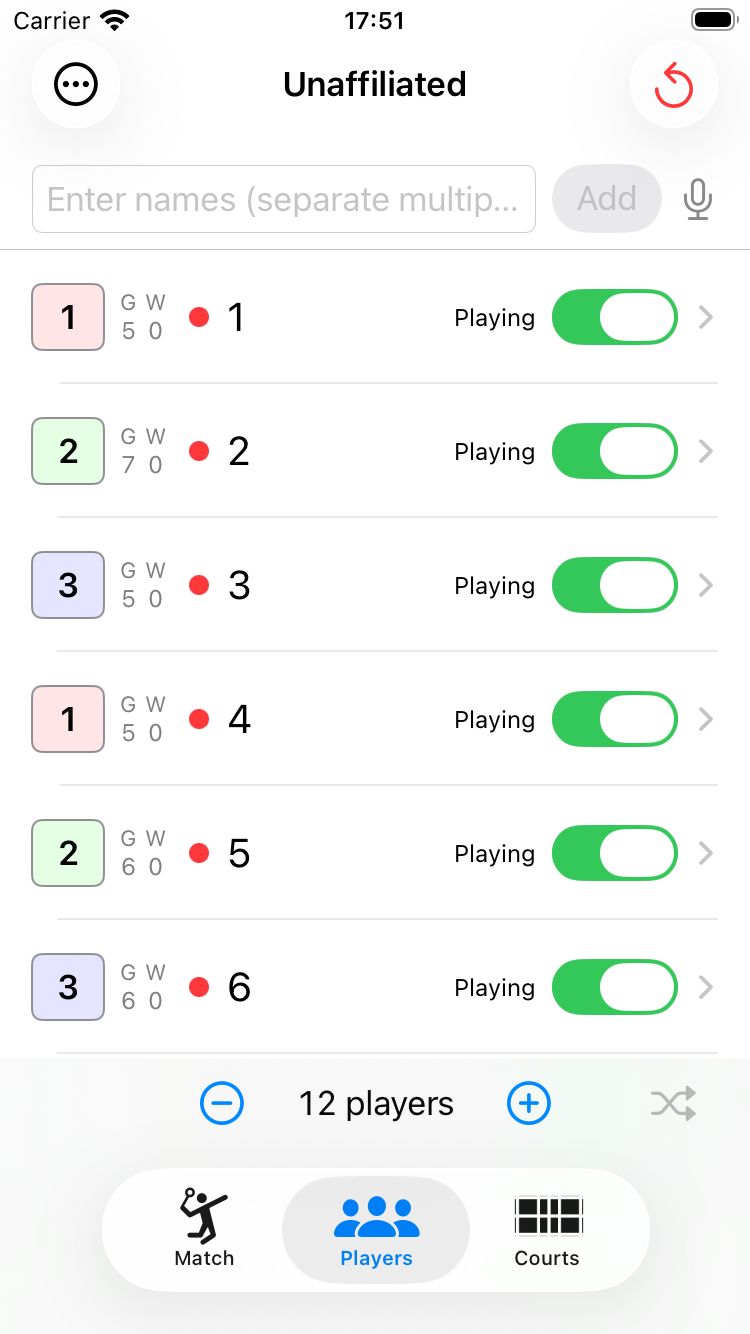
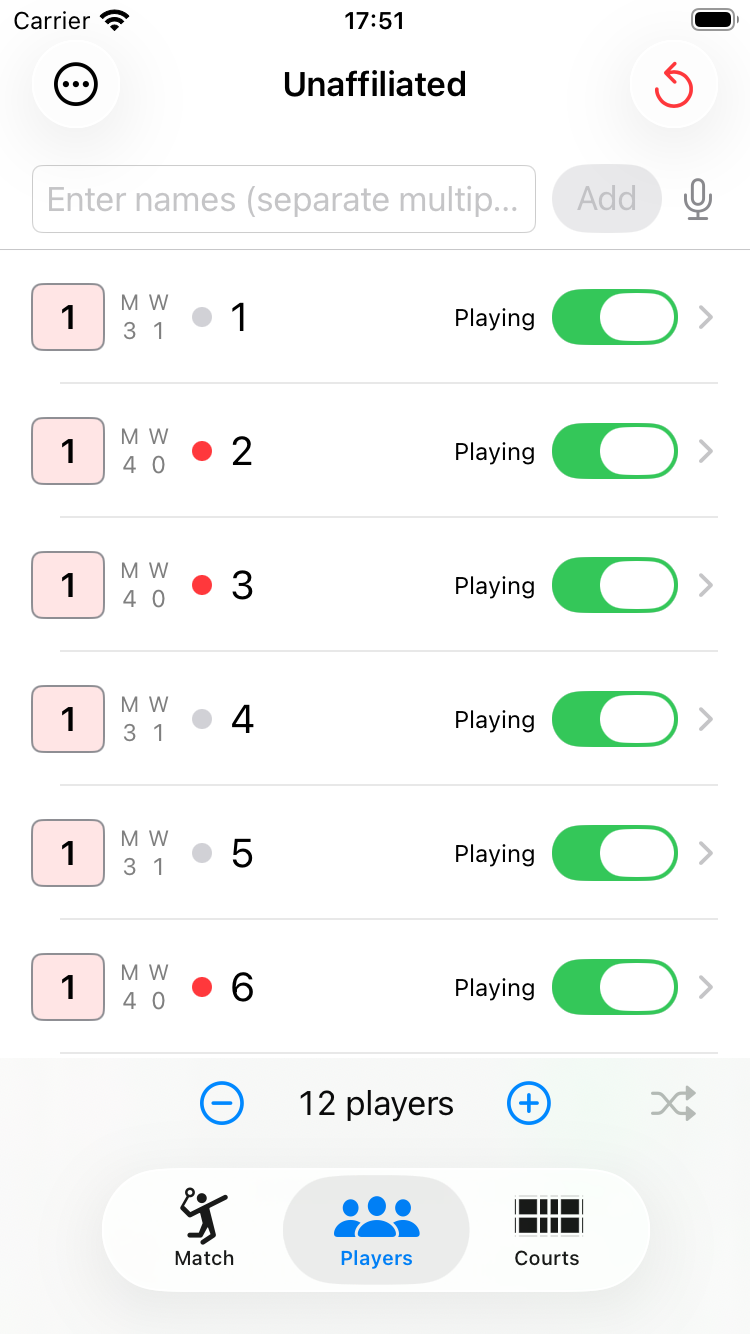
プレイヤータブの試合数表示を「G」から「M」（Match）に変更

diff --git a/players-tab.html b/players-tab.html
@@ -32,7 +32,7 @@
   <li><a href="#rest-toggle">3. 出場状態を変更する（休憩・復帰）</a></li>
   <li><a href="#rename">4. 名前を変更する</a></li>
   <li><a href="#level">5. レベルを設定する</a></li>
-  <li><a href="#game-wait-count">6. 試合数・待機回数（G・W）を確認する</a></li>
+  <li><a href="#game-wait-count">6. 試合数・待機回数（M・W）を確認する</a></li>
   <li><a href="#default-absent">7. デフォルト欠席を設定する</a></li>
   <li><a href="#fixed-pair">8. 固定ペアを設定する</a></li>
   <li><a href="#status">9. 現在の出場状況を確認する</a></li>
@@ -70,12 +70,12 @@
 <div class="ss"><img src="images/players-overview.png" alt="レベルバッジ"></div>
 <p>レベルはコートへの割り当てに使用されます。詳しくは「高度な使い方」をご覧ください。</p>
 
-<h2 id="game-wait-count">6. 試合数・待機回数（G・W）を確認する</h2>
-<p>レベルバッジの右には、<strong>G</strong>（試合数）と<strong>W</strong>（待機回数）が数字で表示されます。</p>
-<div class="ss"><img src="images/players-overview.png" alt="G（試合数）とW（待機回数）の表示"></div>
+<h2 id="game-wait-count">6. 試合数・待機回数（M・W）を確認する</h2>
+<p>レベルバッジの右には、<strong>M</strong>（試合数）と<strong>W</strong>（待機回数）が数字で表示されます。</p>
+<div class="ss"><img src="images/players-overview.png" alt="M（試合数）とW（待機回数）の表示"></div>
 <ul>
-  <li><strong>G</strong> — これまでに出場した試合数</li>
-  <li><strong>W</strong> — 連続で試合に出場していない回数。組み合わせ生成時、この数値が大きいプレイヤーほど優先的に選ばれます（出場すると 0 に戻ります）</li>
+  <li><strong>M</strong>（Match） — これまでに出場した試合数</li>
+  <li><strong>W</strong>（Wait） — 連続で試合に出場していない回数。組み合わせ生成時、この数値が大きいプレイヤーほど優先的に選ばれます（出場すると 0 に戻ります）</li>
 </ul>
 <div class="tip">💡 組み合わせがきちんと公平にローテーションされているかを確認したいときの目安として利用できます。</div>
 <div class="tip">💡 試合の途中で新しく追加したプレイヤーは、W が 0 のままでも次の組み合わせで最優先に出場します。一度も出場していないプレイヤーは、待機回数に関わらず優先されるためです。</div>

diff --git a/home.html b/home.html
@@ -62,6 +62,7 @@
 <ul>
   <li>試合タブの組み合わせ表示のレイアウトを変更。レベルバッジをコート名の左に表示し、勝敗スコアを行内で中央揃えに変更</li>
   <li>コートタブの各行に「Active」（出場）・「Lock Level」（レベル固定）の設定を直接表示し、タップして詳細画面を開かなくても変更できるように変更。「Active」がオフのコートは行全体をグレー表示</li>
+  <li>プレイヤータブの試合数の表示を「G」から「M」（Match）に変更。スコア画面の「G1/G2/G3」（1試合の中の1ゲーム）と意味が紛らわしかったため</li>
 </ul>
 
 <h2>フィードバック</h2>

diff --git a/index.html b/index.html
@@ -62,6 +62,7 @@
 <ul>
   <li>試合タブの組み合わせ表示のレイアウトを変更。レベルバッジをコート名の左に表示し、勝敗スコアを行内で中央揃えに変更</li>
   <li>コートタブの各行に「Active」（出場）・「Lock Level」（レベル固定）の設定を直接表示し、タップして詳細画面を開かなくても変更できるように変更。「Active」がオフのコートは行全体をグレー表示</li>
+  <li>プレイヤータブの試合数の表示を「G」から「M」（Match）に変更。スコア画面の「G1/G2/G3」（1試合の中の1ゲーム）と意味が紛らわしかったため</li>
 </ul>
 
 <h2>フィードバック</h2>

diff --git a/update-history.html b/update-history.html
@@ -20,6 +20,7 @@
 <ul>
   <li>試合タブの組み合わせ表示のレイアウトを変更。レベルバッジをコート名の左に表示し、勝敗スコアを行内で中央揃えに変更</li>
   <li>コートタブの各行に「Active」（出場）・「Lock Level」（レベル固定）の設定を直接表示し、タップして詳細画面を開かなくても変更できるように変更。「Active」がオフのコートは行全体をグレー表示</li>
+  <li>プレイヤータブの試合数の表示を「G」から「M」（Match）に変更。スコア画面の「G1/G2/G3」（1試合の中の1ゲーム）と意味が紛らわしかったため</li>
 </ul>
 
 <h2>v1.21.0</h2>
